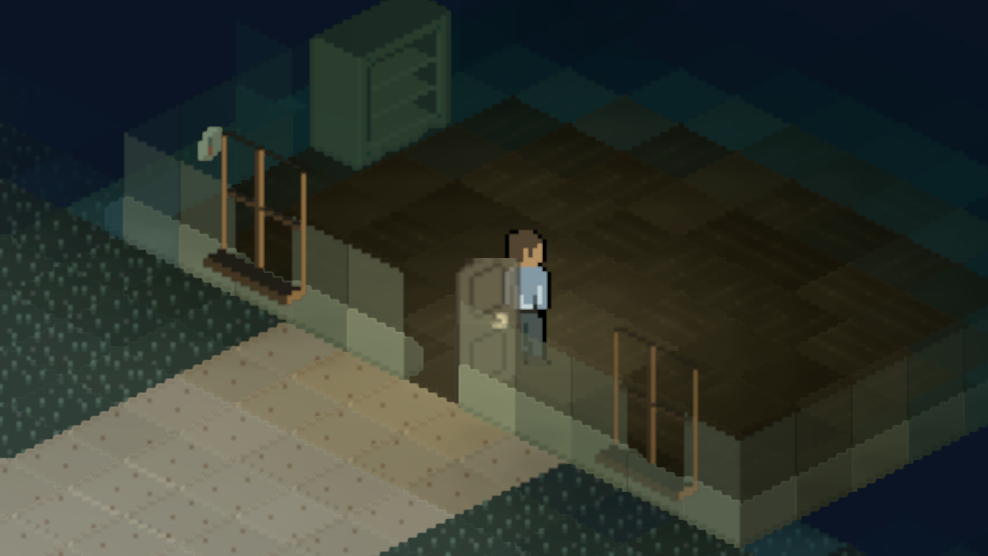
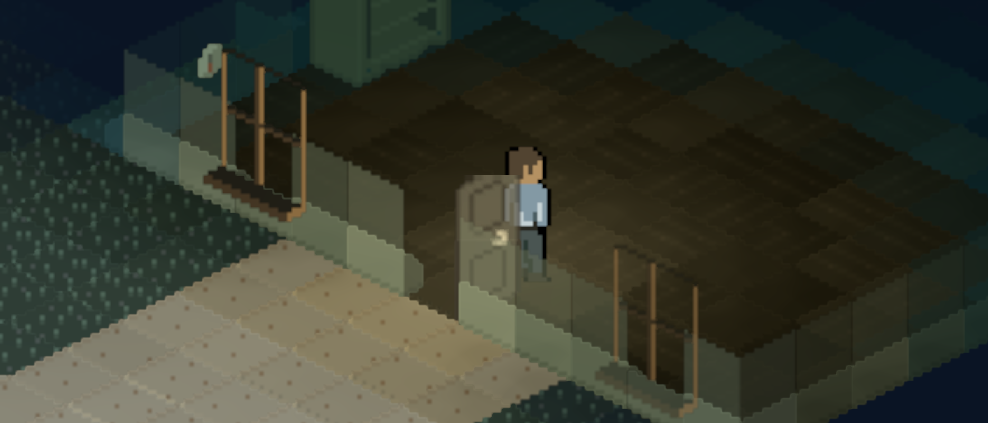
refactor manual

diff --git a/src/manual/utils.rs b/src/manual/utils.rs
@@ -15,6 +15,7 @@ pub fn image_text(
                 justify_content: JustifyContent::FlexStart,
                 align_items: AlignItems::Center,
                 flex_direction: FlexDirection::Column,
+                flex_grow: 0.2,
                 ..default()
             },
             ..default()
@@ -22,10 +23,11 @@ pub fn image_text(
         .with_children(|parent| {
             parent.spawn(ImageBundle {
                 style: Style {
-                    max_width: Val::Percent(90.0),
-                    max_height: Val::Percent(80.0),
-                    margin: UiRect::all(Val::Px(2.0)),
+                    width: Val::Percent(100.0),
+                    // max_height: Val::Percent(90.0),
+                    margin: UiRect::bottom(Val::Px(2.0)),
                     aspect_ratio: Some(16.0 / 9.0),
+                    flex_grow: 0.5,
                     ..default()
                 },
                 image: image.clone().into(),
@@ -54,13 +56,17 @@ pub fn grid_img_text(
             style: Style {
                 // Occupy full width
                 width: Val::Percent(100.0),
-                height: Val::Percent(70.0),
                 display: Display::Grid,
-                grid_template_columns: RepeatedGridTrack::flex(colxrow.0, 1.0),
-                grid_template_rows: RepeatedGridTrack::percent(colxrow.1, 60.0),
-                column_gap: Val::Percent(4.0),
-                row_gap: Val::Percent(4.0),
-                padding: UiRect::all(Val::Percent(2.0)),
+                grid_template_columns: RepeatedGridTrack::percent(
+                    colxrow.0,
+                    99.0 / colxrow.0 as f32,
+                ),
+                grid_template_rows: RepeatedGridTrack::flex(colxrow.1, 1.0),
+                column_gap: Val::Percent(0.5),
+                row_gap: Val::Percent(0.5),
+                padding: UiRect::all(Val::Percent(0.5)),
+                flex_grow: 1.0,
+                flex_basis: Val::Percent(90.0),
                 ..default()
             },
             ..default()
@@ -68,6 +74,80 @@ pub fn grid_img_text(
         .with_children(|parent| {
             for (img, text) in contents {
                 image_text(parent, img, font, text);
+            }
+        });
+}
+
+pub fn grid_img_text2(
+    parent: &mut ChildBuilder<'_>,
+    font: &Handle<Font>,
+    colxrow: (u16, u16),
+    contents: Vec<(&Handle<Image>, impl Into<String>)>,
+) {
+    let mut rows = vec![];
+
+    for _ in 0..colxrow.1 {
+        rows.push(GridTrack::flex(1.0));
+        rows.push(GridTrack::flex(0.3));
+    }
+
+    parent
+        .spawn(NodeBundle {
+            style: Style {
+                width: Val::Percent(96.0),
+                display: Display::Grid,
+                grid_template_columns: RepeatedGridTrack::percent(
+                    colxrow.0,
+                    99.0 / colxrow.0 as f32,
+                ),
+                grid_template_rows: rows,
+                column_gap: Val::Percent(0.5),
+                row_gap: Val::Percent(0.2),
+                padding: UiRect::all(Val::Percent(0.2)),
+                overflow: Overflow::clip(),
+                flex_grow: 1.0,
+                flex_basis: Val::Percent(90.0),
+                ..default()
+            },
+            ..default()
+        })
+        .with_children(|parent| {
+            let contents: Vec<(&Handle<Image>, String)> =
+                contents.into_iter().map(|(a, b)| (a, b.into())).collect();
+            let rows = colxrow.1;
+            let cols = colxrow.0;
+            for row in 0..rows {
+                for (img, _text) in &contents[(row * cols) as usize..(row * cols + cols) as usize] {
+                    parent.spawn(ImageBundle {
+                        style: Style {
+                            // max_width: Val::Percent(100.0),
+                            max_height: Val::Percent(100.0),
+                            margin: UiRect::bottom(Val::Px(2.0)),
+                            aspect_ratio: Some(21.0 / 9.0),
+                            flex_grow: 1.0,
+                            ..default()
+                        },
+                        image: (*img).clone().into(),
+                        ..default()
+                    });
+                }
+                for (_img, text) in &contents[(row * cols) as usize..(row * cols + cols) as usize] {
+                    parent.spawn(
+                        TextBundle::from_section(
+                            text,
+                            TextStyle {
+                                font: font.clone(),
+                                font_size: 16.0 * UI_SCALE,
+                                color: Color::WHITE,
+                            },
+                        )
+                        .with_style(Style {
+                            flex_grow: 0.1,
+                            margin: UiRect::all(Val::Px(4.0)),
+                            ..Default::default()
+                        }),
+                    );
+                }
             }
         });
 }
@@ -83,7 +163,6 @@ pub fn header(
             style: Style {
                 // Occupy full width
                 width: Val::Percent(100.0),
-                height: Val::Percent(10.0),
                 justify_content: JustifyContent::Center,
                 align_items: AlignItems::Center,
                 flex_direction: FlexDirection::Column,
@@ -97,7 +176,7 @@ pub fn header(
                 title,
                 TextStyle {
                     font: handles.fonts.londrina.w300_light.clone(),
-                    font_size: 48.0 * UI_SCALE,
+                    font_size: 32.0 * UI_SCALE,
                     color: Color::WHITE,
                 },
             ));
@@ -107,7 +186,53 @@ pub fn header(
                 subtitle,
                 TextStyle {
                     font: handles.fonts.chakra.w400_regular.clone(),
-                    font_size: 24.0 * UI_SCALE,
+                    font_size: 18.0 * UI_SCALE,
+                    color: Color::WHITE,
+                },
+            ));
+        });
+    parent.spawn(NodeBundle {
+        style: Style {
+            flex_grow: 0.2,
+            flex_basis: Val::Px(10.0),
+            ..default()
+        },
+        ..default()
+    });
+}
+
+pub fn summary_text(parent: &mut ChildBuilder, handles: &GameAssets, summary: impl Into<String>) {
+    parent.spawn(NodeBundle {
+        style: Style {
+            flex_grow: 0.2,
+            flex_basis: Val::Px(0.0),
+            ..default()
+        },
+        ..default()
+    });
+
+    parent
+        .spawn(NodeBundle {
+            style: Style {
+                // Occupy full width
+                width: Val::Percent(100.0),
+                justify_content: JustifyContent::Center,
+                align_items: AlignItems::Center,
+                flex_direction: FlexDirection::Column,
+                margin: UiRect::all(Val::Percent(0.5)),
+                flex_grow: 0.0,
+                flex_basis: Val::Percent(1.0),
+                ..default()
+            },
+            ..default()
+        })
+        .with_children(|parent| {
+            // Summary Text
+            parent.spawn(TextBundle::from_section(
+                summary,
+                TextStyle {
+                    font: handles.fonts.chakra.w400_regular.clone(),
+                    font_size: 18.0 * UI_SCALE,
                     color: Color::WHITE,
                 },
             ));

diff --git a/src/manual/chapter1/p01_mission_briefing.rs b/src/manual/chapter1/p01_mission_briefing.rs
@@ -1,4 +1,4 @@
-use crate::manual::utils::{grid_img_text, header};
+use crate::manual::utils::{grid_img_text2, header, summary_text};
 
 use crate::root::GameAssets;
 use bevy::prelude::*;
@@ -12,7 +12,7 @@ What will you find? How to do a good job as a P.I.? Here are the main clues!
     let grid = vec![
         (
             &handles.images.manual_investigate,
-            "1. Explore the location and use your equipment (EMF, etc) to detect paranormal activity."
+            "1. Explore the location and use your equipment (Thermometer, etc) to detect paranormal activity."
         ),
         (
             &handles.images.manual_locate_ghost,
@@ -20,7 +20,7 @@ What will you find? How to do a good job as a P.I.? Here are the main clues!
         ),
         (
             &handles.images.manual_identify_ghost,
-            "3. Record your findings in the truck journal page to identify the ghost type.",
+            "3. Different ghosts leave different evidence. Recording your findings in the truck journal page helps you identify the ghost type.",
         ),
         (
             &handles.images.manual_craft_repellent,
@@ -35,8 +35,11 @@ What will you find? How to do a good job as a P.I.? Here are the main clues!
             "6. Return to the truck and click 'End Mission' to complete the investigation and receive your score.",
         ),
     ];
+    let summary = "Your goal is to identify and banish the ghost. By exploring, locating the breach, gathering evidence, and using the truck's equipment, you'll craft the right tool for the job. More details on each step are provided in the following pages.";
 
     header(parent, handles, title, subtitle);
 
-    grid_img_text(parent, &handles.fonts.chakra.w400_regular, (3, 2), grid);
+    grid_img_text2(parent, &handles.fonts.chakra.w400_regular, (3, 2), grid);
+
+    summary_text(parent, handles, summary);
 }

diff --git a/src/manual/index.rs b/src/manual/index.rs
@@ -40,7 +40,7 @@ pub fn draw_manual_ui(
                 height: Val::Percent(100.0),
                 justify_content: JustifyContent::Center,
                 flex_direction: FlexDirection::Column,
-                padding: UiRect::all(Val::Px(10.0)),
+                padding: UiRect::all(Val::Px(2.0)),
                 ..default()
             },
             ..default()
@@ -52,10 +52,11 @@ pub fn draw_manual_ui(
                 .spawn(NodeBundle {
                     style: Style {
                         width: Val::Percent(100.0),
-                        height: Val::Percent(90.0),
                         justify_content: JustifyContent::Center,
                         align_items: AlignItems::Center,
                         flex_direction: FlexDirection::Column,
+                        flex_grow: 1.0,
+                        flex_basis: Val::Percent(100.0),
                         ..default()
                     },
                     ..default()
@@ -70,11 +71,13 @@ pub fn draw_manual_ui(
                 .spawn(NodeBundle {
                     style: Style {
                         width: Val::Percent(90.0),
-                        height: Val::Percent(10.0),
+                        height: Val::Percent(5.0),
                         flex_direction: FlexDirection::Row,
                         justify_content: JustifyContent::SpaceBetween,
                         align_items: AlignItems::Center,
                         margin: UiRect::top(Val::Percent(3.0)),
+                        flex_grow: 0.0,
+                        flex_basis: Val::Percent(5.0),
                         ..default()
                     },
                     ..default()
